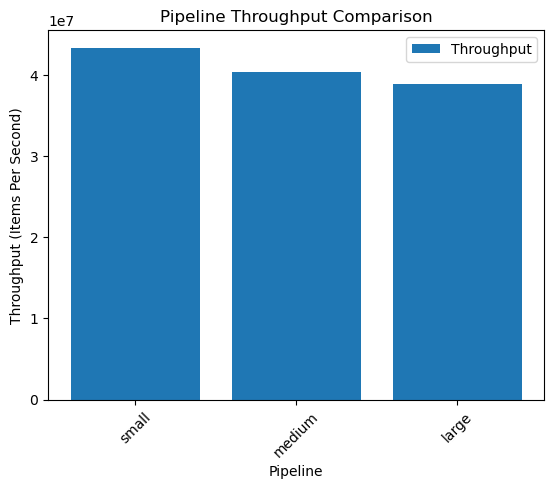
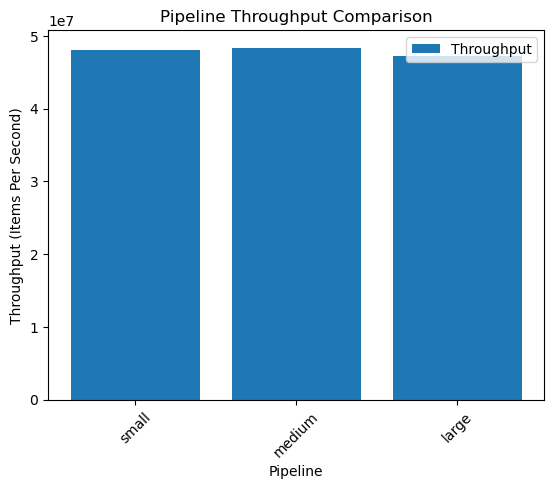
finish part2!

diff --git a/part2.py b/part2.py
@@ -544,17 +544,17 @@ def baseline_small():
     return result
 
 def baseline_medium():
-    m = load_input_small()
+    m = load_input_medium()
     result = population_pipeline(m)
     return result
 
 def baseline_large():
-    l = load_input_small()
+    l = load_input_large()
     result = population_pipeline(l)
     return result
 
 def baseline_latency():
-    x = load_input_small()
+    x = load_input_single_row()
     result = population_pipeline(x)
     return result
 
@@ -647,11 +647,10 @@ What does this experiment show?
 
 ===== ANSWER Q10 BELOW =====
 
-The difference between the baseline and fromvar pipelines is large and increases exponentially with dataset size. 
-The latency of the baseline was twice as large as the fromvar, and the large baseline throughput was three times bigger than the large fromvar throughput
-Throughput differs more for large dataset, but latency differs more when considering the small and medium dataset throughput comparisons
-Surprisingly, the fromvar small throughput actually appears larger than the baseline
-This experience shows that loading an input from file is measurably slower than from a local pandas dataframe and that the difference increases with dataset size
+The throughput for the pipelines using variables are significantly higher than when reading in the file under the baseline implementation
+This increases with dataset size, with the throughput of the large from variable pipeline having a throughput more than 3 times larger than the large baseline pipeline
+The latency is over 3 times larger for the baseline than the from variable implementation, so the difference is about the same for the large datasets (relative)
+This experiment shows that reading in the dataset introduces more overhead than using local pandas variables and that the difference grows when using larger datasets
 
 ===== END OF Q10 ANSWER =====
 """
@@ -714,24 +713,31 @@ def for_loop_pipeline(df):
         if years > 0: 
             increase = (values['last_population'] - values['first_population']) / years
             increases.append(increase)
+    
+    if len(increases) == 0:
+        return [0.0, 0.0, 0.0, 0.0, 0.0]
 
-    increases.sort() # Sort to simplify min and max search
-    n = len(increases)
-    minimum = increases[0]
-    maximum = increases[-1]
-    mean = sum(increases) / n
+    else: 
+        increases.sort() # Sort to simplify min and max search
+        n = len(increases)
+        minimum = increases[0]
+        maximum = increases[-1]
+        mean = sum(increases) / n
 
-    # Calculate median, accounting for even and odd length 
-    if n % 2 != 0:
-        median = increases[n // 2] # Odd
-    else:
-        median = (increases[n/2] + increases[n/2 - 1]) / 2 # Even = find average of middle two
+        # Calculate median, accounting for even and odd length 
+        if n % 2 != 0:
+            median = increases[n // 2] # Odd
+        else:
+            median = (increases[n // 2] + increases[n // 2 - 1]) / 2 # Even = find average of middle two
 
-    # Calculate standard deviation manually
-    variance = sum((x - mean) ** 2 for x in increases) / (n - 1)
-    std = variance ** 0.5
+        # Calculate standard deviation manually, accounting for countries with only one year (n=1)
+        if n > 1:
+            variance = sum((x - mean) ** 2 for x in increases) / (n - 1)
+            std = variance ** 0.5
+        else:
+            std = 0.0 
 
-    return [float(minimum), float(median), float(maximum), float(mean), float(std)]
+        return [float(minimum), float(median), float(maximum), float(mean), float(std)]
         
 
 def q11():
@@ -747,16 +753,24 @@ As before, write 4 pipelines based on the datasets from Q7.
 """
 
 def for_loop_small():
-    raise NotImplementedError
+    s = load_input_small()
+    result = for_loop_pipeline(s)
+    return result
 
 def for_loop_medium():
-    raise NotImplementedError
+    m = load_input_medium()
+    result = for_loop_pipeline(m)
+    return result
 
 def for_loop_large():
-    raise NotImplementedError
+    l = load_input_large()
+    result = for_loop_pipeline(l)
+    return result
 
 def for_loop_latency():
-    raise NotImplementedError
+    x = load_input_single_row()
+    result = for_loop_pipeline(x)
+    return result
 
 def q12():
     # Don't modify this part
@@ -778,16 +792,38 @@ b. Generate a plot in output/part2-q13b.png of the latencies
 """
 
 def q13a():
-    # Add all 6 pipelines for a throughput comparison
-    # Generate plot in output/part2-q13a.png
-    # Return list of 6 throughputs
-    raise NotImplementedError
+    # Create a ThroughputHelper object
+    h = ThroughputHelper()
+    
+    # Add the baseline pipelines
+    h.add_pipeline("small_baseline", len(POPULATION_SMALL), baseline_small)
+    h.add_pipeline("medium_baseline", len(POPULATION_MEDIUM), baseline_medium)
+    h.add_pipeline("large_baseline", len(POPULATION_LARGE), baseline_large)
+
+    # Add for loop pipelines
+    h.add_pipeline("for_loop_small", len(POPULATION_SMALL), for_loop_small)
+    h.add_pipeline("for_loop_medium", len(POPULATION_MEDIUM), for_loop_medium)
+    h.add_pipeline("for_loop_large", len(POPULATION_LARGE), for_loop_large)
+
+    # Generate throughputs and create plot
+    throughputs = h.compare_throughput()
+    h.generate_plot('output/part2-q13a.png')
+
+    return throughputs
 
 def q13b():
-    # Add 2 pipelines for a latency comparison
-    # Generate plot in output/part2-q13b.png
-    # Return list of 2 latencies
-    raise NotImplementedError
+    # Create a LatencyHelper object
+    h = LatencyHelper()
+
+    # Add the 2 pipelines
+    h.add_pipeline("baseline", baseline_latency)
+    h.add_pipeline("for_loop", for_loop_latency)
+
+    # Generate latencies and create plot
+    latencies = h.compare_latency()
+    h.generate_plot('output/part2-q13b.png')
+
+    return latencies
 
 """
 14.
@@ -797,11 +833,15 @@ Comment on the results you got!
 
 ===== ANSWER Q14a BELOW =====
 
+The baseline pipelines are faster in terms of throughput
+
 ===== END OF Q14a ANSWER =====
 
 14b. Which pipeline is faster in terms of latency?
 
 ===== ANSWER Q14b BELOW =====
+
+The for loop pipeline is faster in terms of latency
 
 ===== END OF Q14b ANSWER =====
 
@@ -809,6 +849,10 @@ Comment on the results you got!
 What does this experiment show?
 
 ===== ANSWER Q14c BELOW =====
+
+The throughput for the large and medium baseline pipelines were significantly higher, while the throughput for the small baseline was around the same as the for loop pipelines
+This shows that processing speed and throughput increase with dataset size when using pandas operations, which are more efficient with larger datasets, but remain relatively constant when using for loops
+Using pandas operations for large datasets is more efficient, but the overhead may outweigh these benefits on small inputs like in the latency test
 
 ===== END OF Q14c ANSWER =====
 """
@@ -823,6 +867,9 @@ had the biggest impact on performance?
 
 ===== ANSWER Q15 BELOW =====
 
+Vectorized vs. for loop had the largest impact on performance, with the throughputs on a large dataset of the vectorized baseline being around 30 times the throughput of the for loop implementation on the same dataset
+However, file vs. variable had a large impact on single row latency, with the local pandas variable achieving a latency around 4.7 times faster
+
 ===== END OF Q15 ANSWER =====
 
 16.
@@ -834,6 +881,8 @@ This is an open ended question.)
 
 ===== ANSWER Q16 BELOW =====
 
+I hypothesize that throughput increases with the size on an input dataset when using vectorized pandas functions but that the computational overhead may outweight the benefits on smaller datasets.
+
 ===== END OF Q16 ANSWER =====
 
 17.
@@ -844,6 +893,8 @@ throughput is related to latency.
 This is an open ended question.)
 
 ===== ANSWER Q17 BELOW =====
+
+I hypothesize that for pipelines processing the same number of items, higher throughput generally corresponds to lower latency (execution time). 
 
 ===== END OF Q17 ANSWER =====
 """
